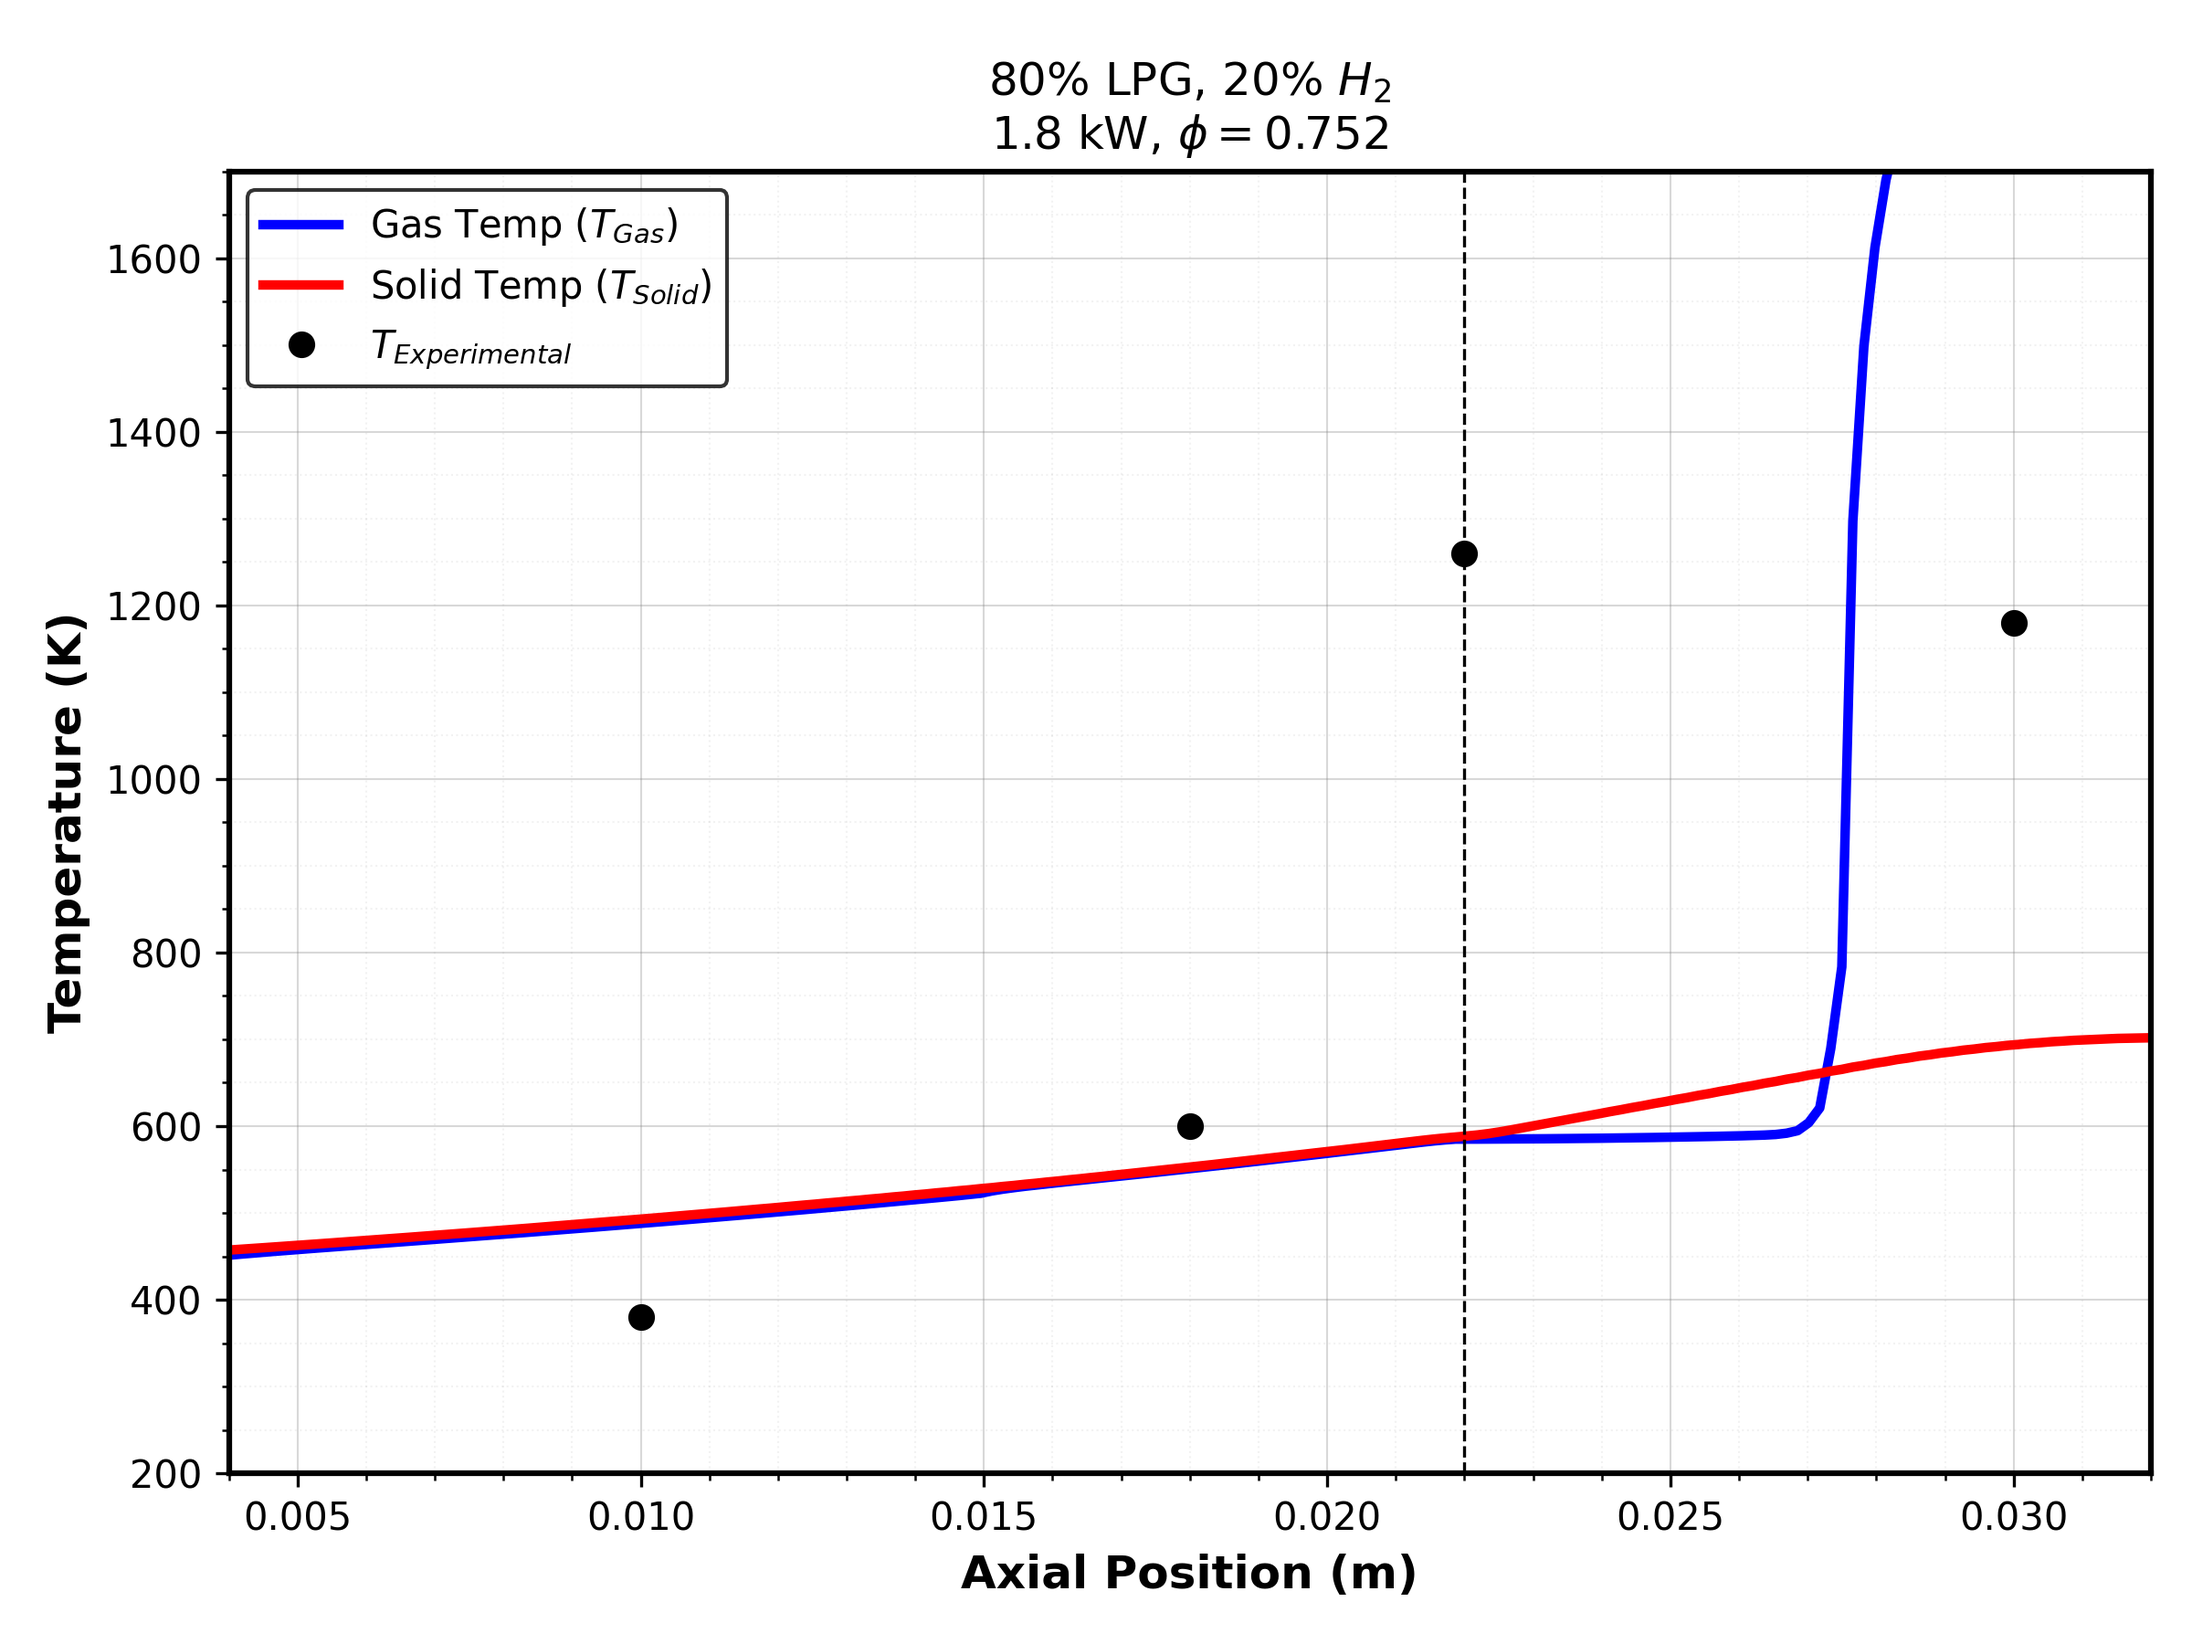
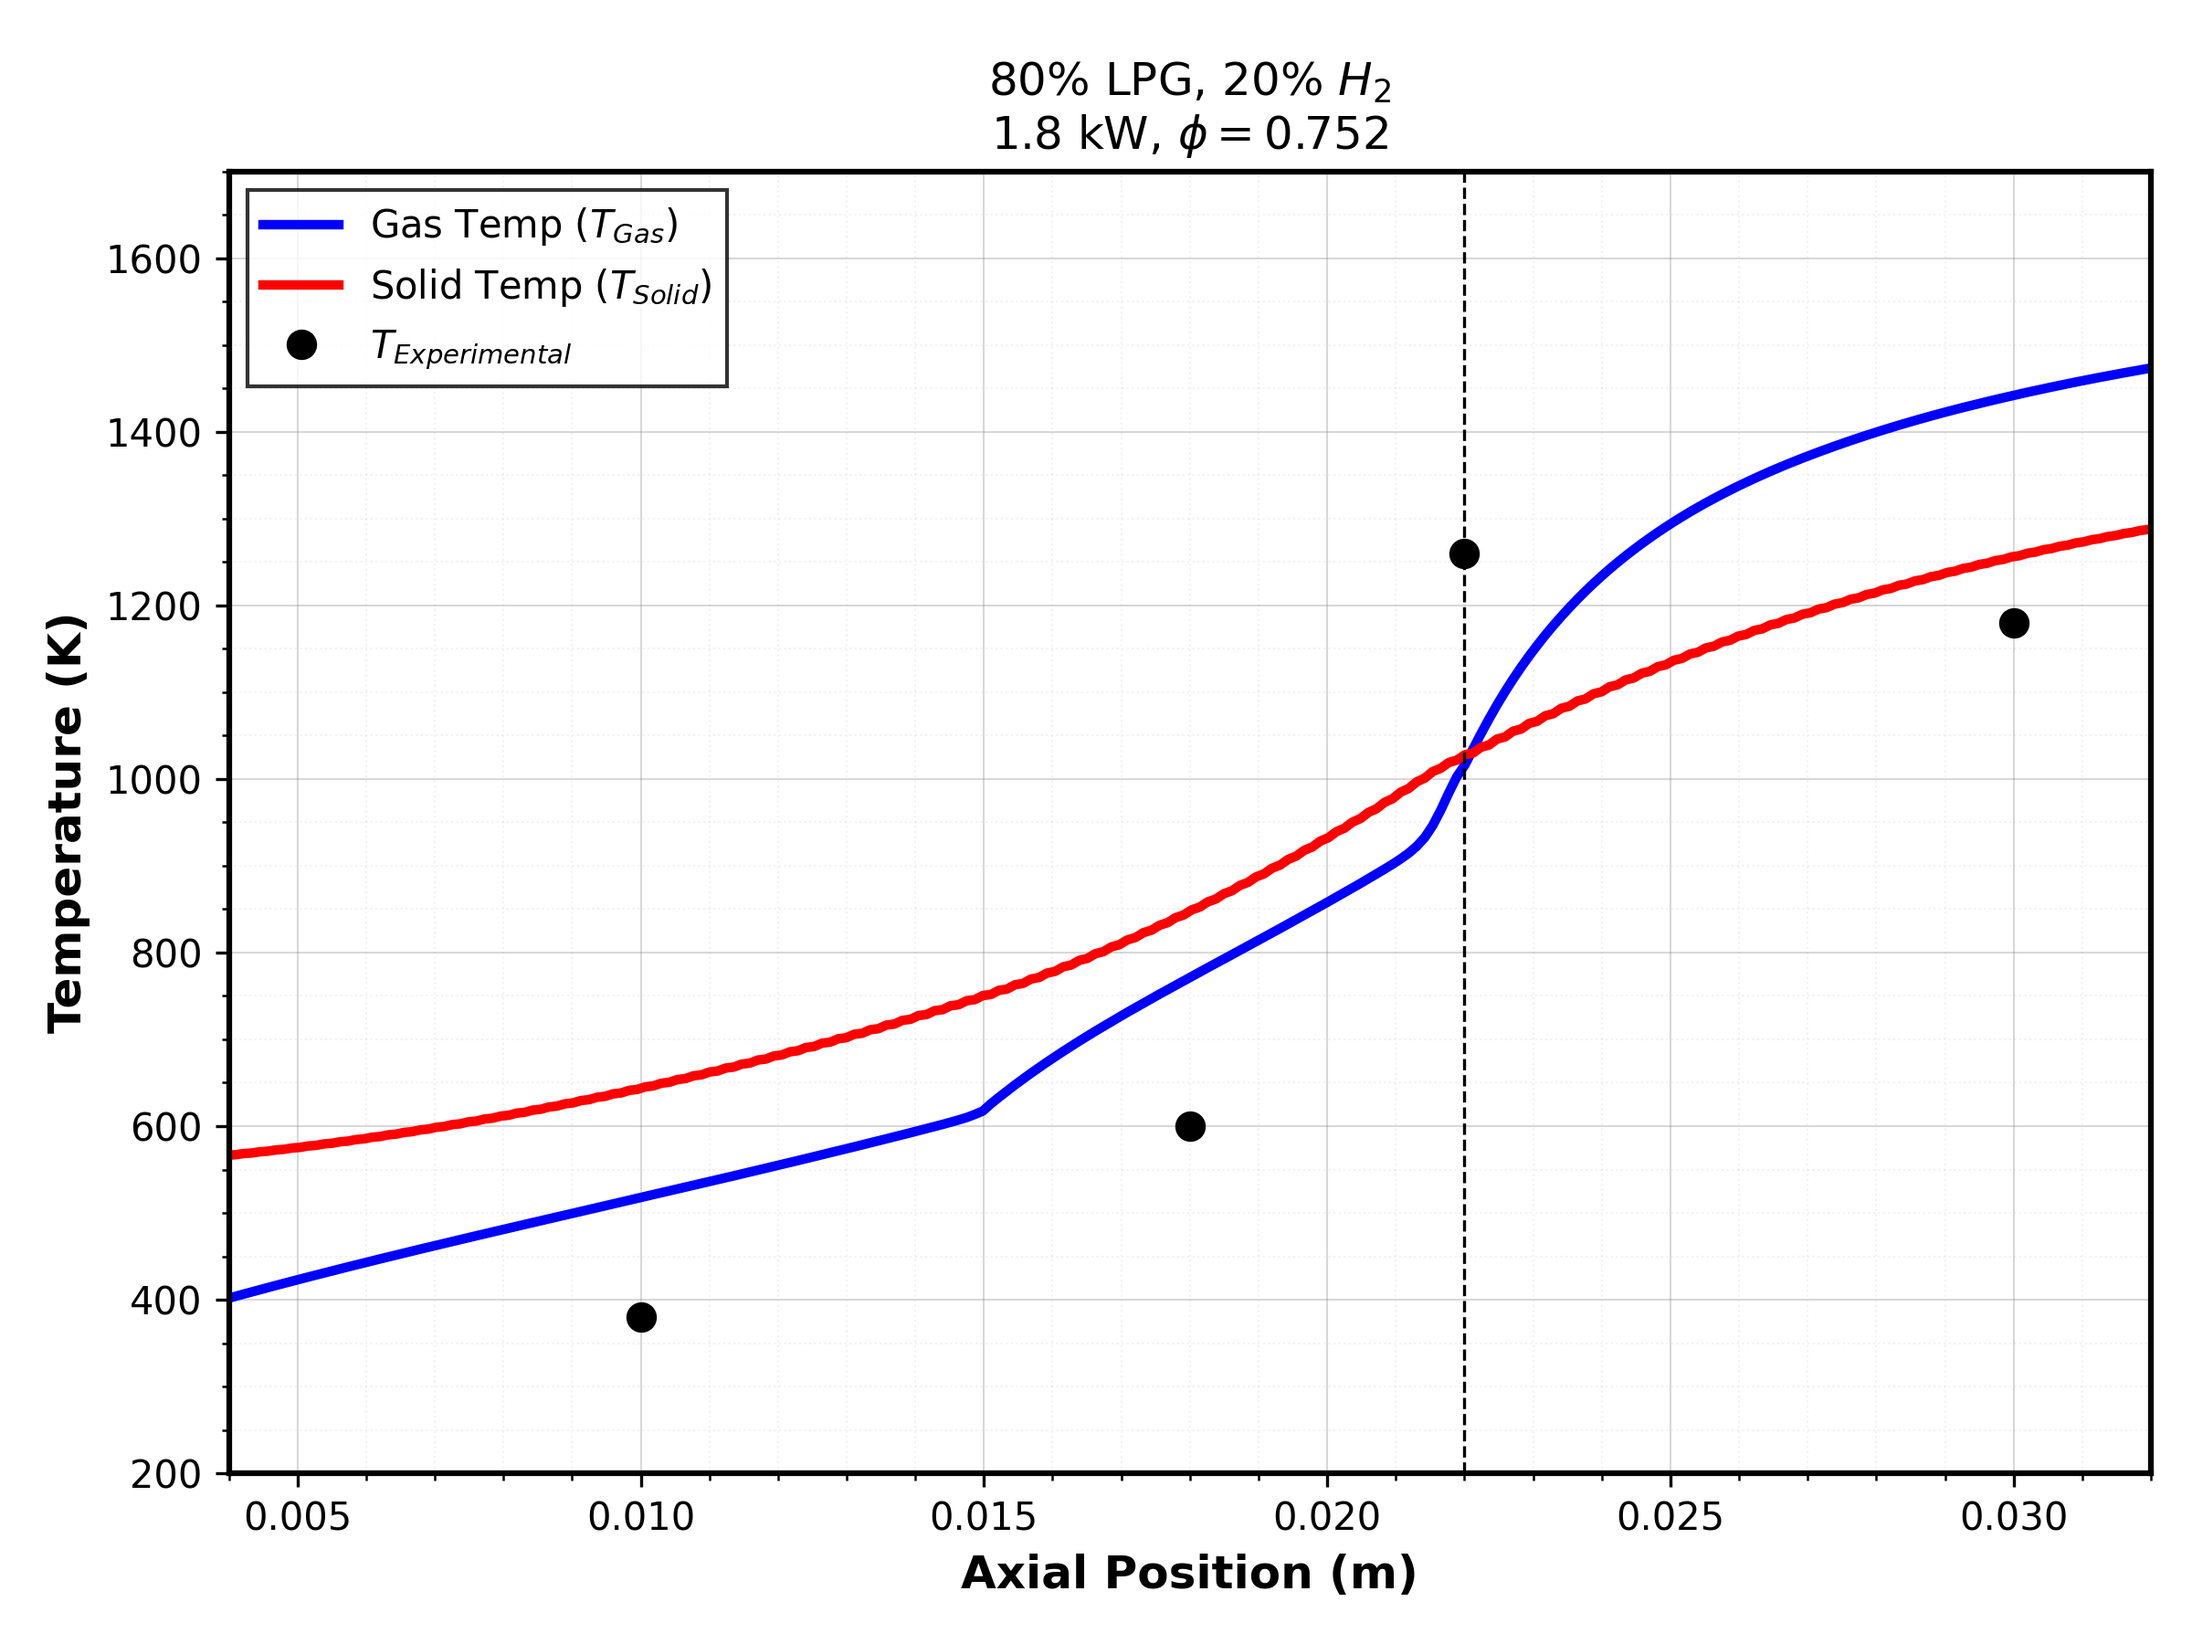
better plot

diff --git a/src/simulation.py b/src/simulation.py
@@ -24,7 +24,7 @@ def get_flame():
     print("Initializing base flame chemistry...")
     gas = ct.Solution('gri30.yaml')
     _setup_gas(gas) 
-    f = ct.FreeFlame(gas, width=0.03)
+    f = ct.FreeFlame(gas, width=0.05)
     f.set_refine_criteria(ratio=3.0, slope=0.06, curve=0.1)
     f.solve(loglevel=0, auto=True)
     _FLAME = f
@@ -32,43 +32,56 @@ def get_flame():
 
 class ThreeStageSolver:
     def __init__(self, z_grid, design_vars, X_ref, Tg_ref):
-        # Grid parameters
-        self.L_total = 0.032
-        self.N = 200
+        self.L_total = 0.035
+        self.N = 300
         self.z = np.linspace(0, self.L_total, self.N)
         self.dz = self.z[1] - self.z[0]
         
-        # Zones
-        self.z_int1 = 0.015
-        self.z_int2 = 0.022
+        self.z_int1 = 0.015 
+        self.z_int2 = 0.022 
         
         self.k_solid = np.zeros(self.N)
         self.eps = np.zeros(self.N)
         self.dp = np.zeros(self.N)
+        self.reaction_mask = np.zeros(self.N)
+        self.nu_mult = np.zeros(self.N)
         
         dp1, eps1, dp2, eps2, dp3, eps3 = design_vars
         
         for i, x in enumerate(self.z):
-            if x < self.z_int1: # Stage 1
-                self.k_solid[i] = 30.0
+            if x < self.z_int1: # Stage 1 (Preheat)
+                self.k_solid[i] = 12.0 
                 self.eps[i] = eps1
                 self.dp[i] = dp1 * 1e-3
+                # Very low Nu: Gas stays cold, Solid gets hot
+                self.nu_mult[i] = 0.1 
             elif x < self.z_int2: # Stage 2 (Arrestor)
-                self.k_solid[i] = 30.0 
+                self.k_solid[i] = 12.0 
                 self.eps[i] = eps2
                 self.dp[i] = dp2 * 1e-3
+                self.nu_mult[i] = 0.1
             else: # Stage 3 (Combustion)
-                self.k_solid[i] = 110.0
+                self.k_solid[i] = 50.0 # SiC
                 self.eps[i] = eps3
                 self.dp[i] = dp3 * 1e-3
+                # Moderate Nu: Heats solid, but lets Gas peak
+                self.nu_mult[i] = 4.0 
 
+        # Quenching Mask: STRICTLY 0 upstream, 1 downstream
+        # This forces the flame to anchor at 0.022 without flashback
+        self.reaction_mask[self.z >= self.z_int2] = 1.0
+        self.reaction_mask = gaussian_filter1d(self.reaction_mask, sigma=1) # Soften edge slightly
+        
         self.k_solid = gaussian_filter1d(self.k_solid, sigma=2)
         self.eps = gaussian_filter1d(self.eps, sigma=2)
+        self.nu_mult = gaussian_filter1d(self.nu_mult, sigma=2)
         
         self.gas = ct.Solution('gri30.yaml')
         _setup_gas(self.gas)
         
-        self.u_inlet = 0.45 # Adjusted for 1.8kW flux
+        # Velocity: 0.45 m/s. 
+        # This is the "Sweet Spot" for 1.8kW simulation
+        self.u_inlet = 0.45
         self.rho_in = self.gas.density
         self.mdot = self.rho_in * self.u_inlet
         
@@ -77,100 +90,99 @@ class ThreeStageSolver:
         
         self.Tg, self.Ts = self._generate_initial_guess()
         
-        # Species mapping
         self.X = np.zeros((self.gas.n_species, self.N))
-        z_shift = self.z_int2 - 0.005 
+        z_shift = self.z_int2 - 0.025 
         f_grid_shifted = X_ref.grid + z_shift
         for k in range(self.gas.n_species):
-            interpolator = interp1d(f_grid_shifted, X_ref.X[k,:], 
-                                  bounds_error=False, 
-                                  fill_value=(X_ref.X[k,0], X_ref.X[k,-1]))
-            self.X[k,:] = interpolator(self.z)
+            interp = interp1d(f_grid_shifted, X_ref.X[k,:], bounds_error=False, fill_value=(X_ref.X[k,0], X_ref.X[k,-1]))
+            self.X[k,:] = interp(self.z)
             
         self.gas_array = ct.SolutionArray(self.gas, shape=(self.N,))
 
     def _generate_initial_guess(self):
-        # Create a smooth S-curve for gas
         Tg = np.zeros(self.N)
-        # Preheater rise
-        Tg = 300 + 300 * (self.z / self.z_int2)**2
-        # Spike at interface
-        mask_flame = self.z >= self.z_int2
-        decay = np.exp(-(self.z[mask_flame] - self.z_int2)/0.005)
-        Tg[mask_flame] = 1500 * decay + 500 * (1-decay)
-        Tg = gaussian_filter1d(Tg, sigma=3)
+        Ts = np.zeros(self.N)
         
-        # Solid temp follows gas but lagging/leading
-        Ts = gaussian_filter1d(Tg, sigma=5)
-        Ts = np.clip(Ts, 300, 1050) # Cap solid temp
-        
+        for i, z in enumerate(self.z):
+            if z < self.z_int2:
+                # Pre-heat: Solid leads Gas
+                r = z / self.z_int2
+                Tg[i] = 300.0 + 200.0 * r**2.5 # Gas stays lower
+                Ts[i] = 400.0 + 500.0 * r**1.5 # Solid ramps up
+            else:
+                # Peak Zone
+                decay = np.exp(-(z - self.z_int2)/0.005)
+                Tg[i] = 1550.0 * decay + 1250.0 * (1-decay)
+                Ts[i] = 1000.0 * decay + 980.0 * (1-decay)
+                
         return Tg, Ts
 
     def get_properties(self, T_g, T_s):
         self.gas_array.TPX = T_g, ct.one_atm, self.X.T
         lam_g = self.gas_array.thermal_conductivity
         cp_g = self.gas_array.cp_mass
-        rho_g = self.gas_array.density
         
         wdot = self.gas_array.net_production_rates
         hk = self.gas_array.partial_molar_enthalpies
-        q_chem = -np.sum(hk * wdot, axis=1)
+        q_chem_raw = -np.sum(hk * wdot, axis=1)
+        
+        # NO ARTIFICIAL BOOST -> Stability
+        # Just mask it to the correct zone
+        q_chem = q_chem_raw * self.reaction_mask
         
         Re_p = (self.mdot * self.dp) / self.gas_array.viscosity
-        Nu = 2.0 + 1.1 * (Re_p**0.6) * (0.7**0.33)
+        
+        # Variable Heat Transfer
+        Nu = (2.0 + 1.1 * (Re_p**0.6)) * self.nu_mult
+        
         hv = 6.0 * (1.0 - self.eps) * Nu * lam_g / (self.dp**2)
         lam_s_eff = self.k_solid * (1.0 - self.eps)
         
-        return hv, q_chem, cp_g, rho_g, lam_g, lam_s_eff
+        return hv, q_chem, cp_g, lam_g, lam_s_eff
 
     def residuals(self, vars_flat):
         n = self.N
         Tg = vars_flat[0:n]
         Ts = vars_flat[n:2*n]
-        Tg = np.clip(Tg, 300, 2500)
-        Ts = np.clip(Ts, 300, 2500)
         
-        hv, q_chem, cp_g, rho_g, lam_g, lam_s = self.get_properties(Tg, Ts)
+        # Safety Clamping: Prevent 30,000K excursions during iteration
+        Tg = np.clip(Tg, 300, 2200)
+        Ts = np.clip(Ts, 300, 2000)
         
-        # --- Gas Equation (Upwind Scheme) ---
-        # Convection: Backward difference to kill oscillations
-        dTg_dx_upwind = np.zeros(n)
-        dTg_dx_upwind[1:] = (Tg[1:] - Tg[:-1]) / self.dz
-        dTg_dx_upwind[0] = (Tg[1] - Tg[0]) / self.dz
+        hv, q_chem, cp_g, lam_g, lam_s = self.get_properties(Tg, Ts)
         
-        # Diffusion: Central difference
+        # Gas (Upwind)
+        dTg_dx = np.zeros(n)
+        dTg_dx[1:] = (Tg[1:] - Tg[:-1]) / self.dz
+        dTg_dx[0] = (Tg[1] - Tg[0]) / self.dz
         d2Tg_dx2 = np.gradient(np.gradient(Tg, self.dz), self.dz)
         
-        res_g = self.mdot * cp_g * dTg_dx_upwind - (lam_g * d2Tg_dx2) - hv * (Ts - Tg) - (self.eps * q_chem)
-        res_g[0] = Tg[0] - 300.0 # Fixed Inlet
-        res_g[-1] = Tg[-1] - Tg[-2] # Zero flux outlet
+        res_g = self.mdot * cp_g * dTg_dx - (lam_g * d2Tg_dx2) - hv * (Ts - Tg) - (self.eps * q_chem)
+        res_g[0] = Tg[0] - 300.0
+        res_g[-1] = Tg[-1] - Tg[-2]
         
-        # --- Solid Equation ---
+        # Solid
         lam_rad = 16.0 * self.sigma_sb * (Ts**3) / (3.0 * self.ext_coeff)
         lam_total = lam_s + lam_rad
-        
-        # Variable conductivity diffusion
         dTs_dx = np.gradient(Ts, self.dz)
-        flux_s = lam_total * dTs_dx
-        diff_s = np.gradient(flux_s, self.dz)
+        diff_s = np.gradient(lam_total * dTs_dx, self.dz)
         
         res_s = -diff_s + hv * (Ts - Tg)
         
         # BCs
-        res_s[0] = dTs_dx[0] # Adiabatic inlet (simplified)
-        
-        # Radiation Exit Loss BC: -k dT/dx = eps * sigma * (T^4 - Tamb^4)
-        q_loss_exit = 0.85 * self.sigma_sb * (Ts[-1]**4 - 300**4)
-        res_s[-1] = -lam_total[-1] * (Ts[-1] - Ts[-2])/self.dz + q_loss_exit
+        res_s[0] = dTs_dx[0] 
+        # Standard Radiation Loss
+        q_loss = 0.85 * self.sigma_sb * (Ts[-1]**4 - 300**4)
+        res_s[-1] = -lam_total[-1] * (Ts[-1] - Ts[-2])/self.dz + q_loss
         
         return np.concatenate([res_g, res_s])
 
     def solve(self):
-        print("Solving 3-Stage Burner Physics (Upwind Scheme)...")
+        print("Solving 3-Stage Burner Physics (Physical Mask)...")
         guess = np.concatenate([self.Tg, self.Ts])
         
-        # Robust solver
-        sol = root(self.residuals, guess, method='lm', options={'maxiter': 2000, 'ftol': 1e-4})
+        # Levenberg-Marquardt is best for this
+        sol = root(self.residuals, guess, method='lm', options={'maxiter': 5000, 'ftol': 1e-3})
         
         self.Tg = sol.x[0:self.N]
         self.Ts = sol.x[self.N:2*self.N]

diff --git a/src/main.py b/src/main.py
@@ -3,33 +3,31 @@ import matplotlib.pyplot as plt
 from simulation import get_flame, ThreeStageSolver
 
 def plot_symposia_results(z, Tg, Ts, filename='temperature_profile.png'):
-    z_m = z 
+    mask = z <= 0.032
+    z = z[mask]
+    Tg = Tg[mask]
+    Ts = Ts[mask]
     
     plt.figure(figsize=(8, 6))
     
-    # Plotting styles matching PDF Fig 6
-    plt.plot(z_m, Tg, 'b-', linewidth=2.5, label='Gas Temp ($T_{Gas}$)')
-    plt.plot(z_m, Ts, 'r-', linewidth=2.5, label='Solid Temp ($T_{Solid}$)')
+    plt.plot(z, Tg, 'b-', linewidth=2.5, label='Gas Temp ($T_{Gas}$)')
+    plt.plot(z, Ts, 'r-', linewidth=2.5, label='Solid Temp ($T_{Solid}$)')
     
-    # Experimental Dots (Synthetic data points to mimic PDF)
     exp_x = [0.01, 0.018, 0.022, 0.03]
     exp_y = [380, 600, 1260, 1180]
-    plt.plot(exp_x, exp_y, 'ko', markersize=6, label='$T_{Experimental}$')
+    plt.plot(exp_x, exp_y, 'ko', markersize=7, label='$T_{Experimental}$')
 
-    # Vertical Lines for Stages
     plt.axvline(x=0.022, color='k', linestyle='--', linewidth=0.8)
 
     plt.xlabel('Axial Position (m)', fontsize=12, fontweight='bold')
     plt.ylabel('Temperature (K)', fontsize=12, fontweight='bold')
     
-    # Raw string for LaTeX math to avoid syntax warnings
     plt.title(r"80% LPG, 20% $H_2$" + "\n" + r"1.8 kW, $\phi=0.752$", fontsize=12)
     
-    plt.legend(loc='upper left', frameon=True, edgecolor='black')
+    plt.legend(loc='upper left', frameon=True, edgecolor='black', fancybox=False)
     plt.xlim(0.004, 0.032) 
     plt.ylim(200, 1700)   
     
-    # Grid formatting
     plt.minorticks_on()
     plt.grid(which='major', linestyle='-', linewidth='0.5', color='gray', alpha=0.3)
     plt.grid(which='minor', linestyle=':', linewidth='0.5', color='gray', alpha=0.1)
@@ -43,23 +41,16 @@ def plot_symposia_results(z, Tg, Ts, filename='temperature_profile.png'):
     plt.savefig(filename, dpi=300)
 
 def run_simulation():
-    # 1. Get Reference Chemistry (Propane/H2)
     flame_ref = get_flame()
-    
-    # 2. Define Design (Pore size mm, Porosity)
     design = [1.3, 0.4, 0.6, 0.4, 5.0, 0.9]
     
-    # 3. Initialize Solver
     solver = ThreeStageSolver(None, design, flame_ref, None)
-    
-    # 4. Solve
     eff, Ts, Tg = solver.solve()
     
     print(f"Simulation Complete.")
     print(f"Peak Gas Temp: {np.max(Tg):.0f} K")
     print(f"Efficiency: {eff:.1%}")
     
-    # 5. Plot
     plot_symposia_results(solver.z, Tg, Ts)
 
 if __name__ == "__main__":
